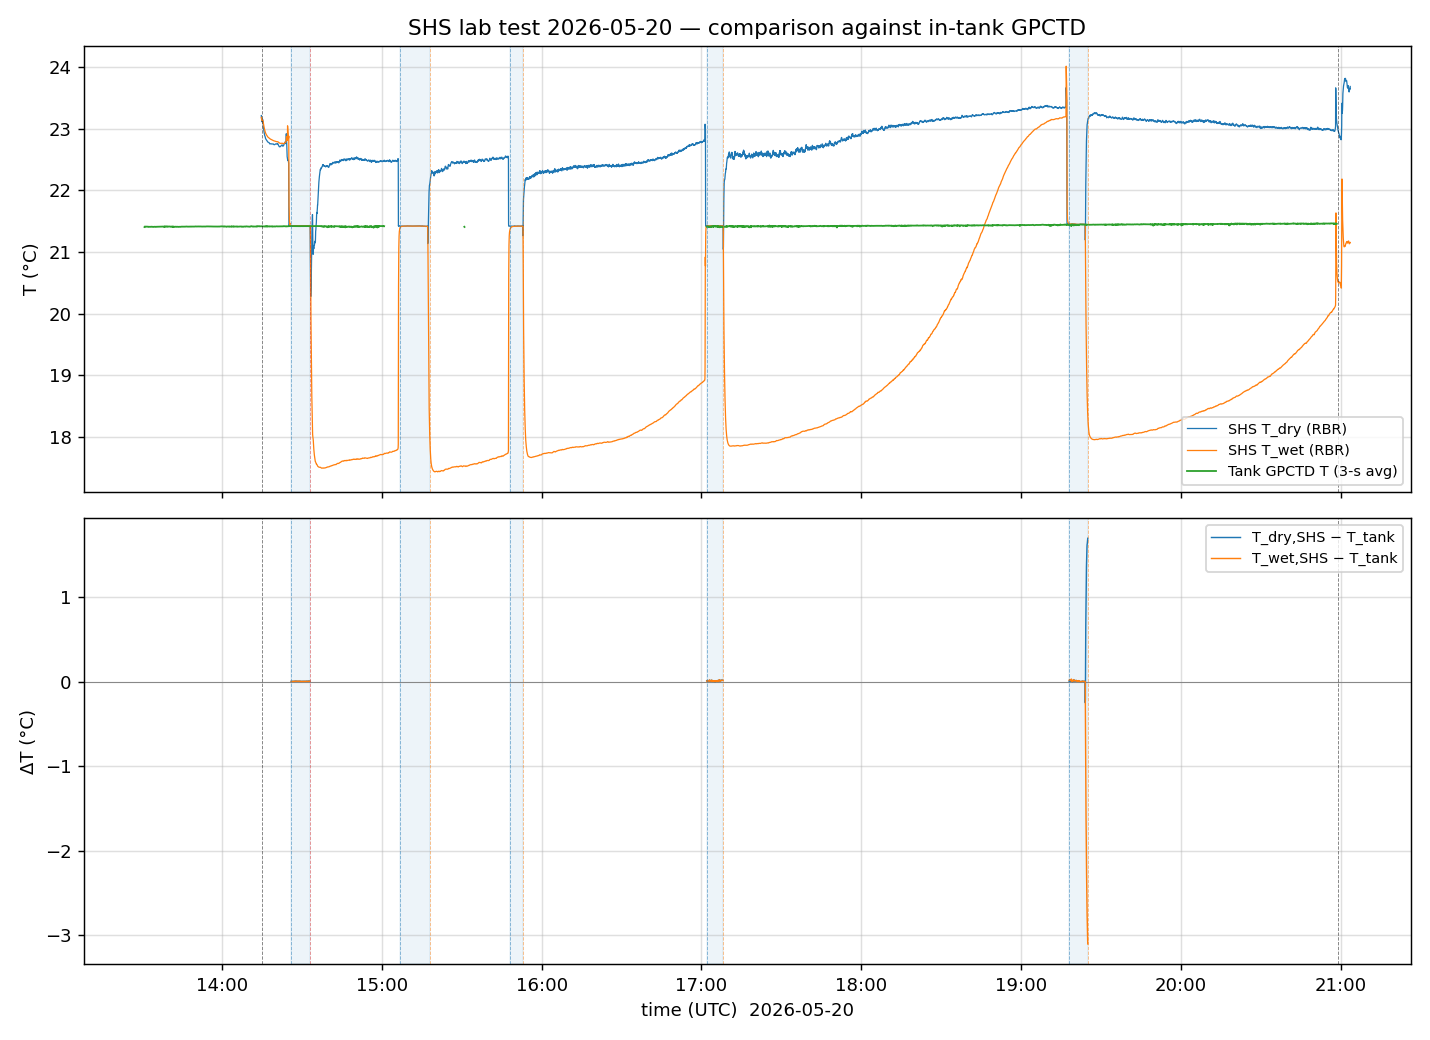
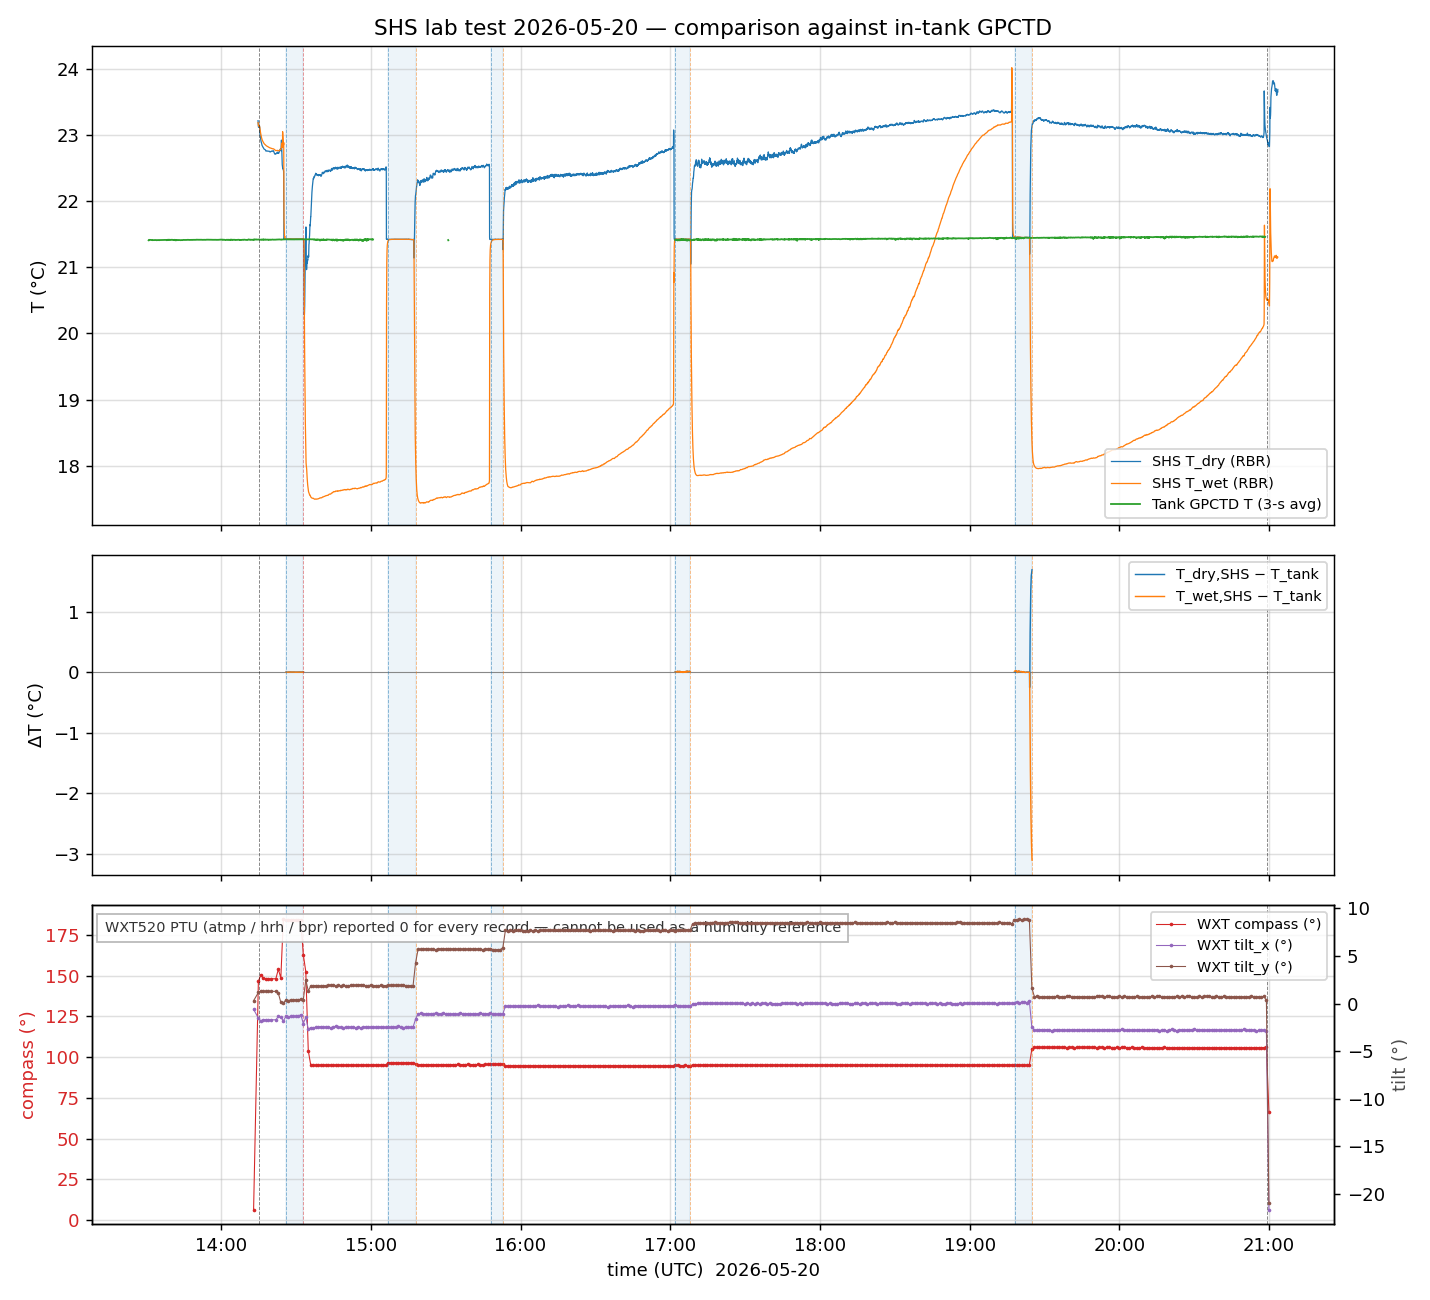
Add WXT520 diagnostic panel to SHS-vs-tank figure
The WXT520 PTU sensor (atmp/hrh/bpr) reported 0 for every record in this
test (confirmed by both the official UOP MATLAB-processed CSV/NC and the
Python decoder), so it cannot serve as a humidity reference. We now read
the processed/ASWXT102.csv file and plot compass + tilt as proof-of-life
in a third panel, with a text annotation flagging the dead PTU channel.

diff --git a/code/compare_Lab20260520.py b/code/compare_Lab20260520.py
@@ -1,12 +1,18 @@
 """Compare 2026-05-20 SHS lab-test temperatures against the independent
-in-tank Seabird GPCTD reference.
+in-tank Seabird GPCTD reference, with a diagnostic panel showing the WXT520
+compass / tilt channels.
 
-The Vaisala WXT520 file (data/20260520Lab/WXT/ASWXT102.DAT) was checked
-separately and its PTU channel decoded to all zeros, so it is not used here.
+The Vaisala WXT520 PTU sensor (air T / RH / pressure) was not reporting
+for this test — both the UOP MATLAB-processed CSV and our Python decoder
+show atmp = hrh = bpr = 0 for every record. Only compass and tilt are valid.
+So the WXT cannot serve as a humidity reference here; we plot the compass
+and tilt as proof-of-life and call out the dead PTU channel.
 
 Inputs:
-  - data/20260520Lab/RBR/psychrometrics_20260520.csv (SHS psychrometric output)
-  - data/20260520Lab/tank/20260520_CT_tank_log_EGH    (Seabird GPCTD, 1 Hz)
+  - data/20260520Lab/RBR/psychrometrics_20260520.csv  (SHS psychrometric output)
+  - data/20260520Lab/tank/20260520_CT_tank_log_EGH     (Seabird GPCTD, 1 Hz)
+  - data/20260520Lab/WXT/20260521_SHS-test_EGH/processed/ASWXT102.csv
+      (official UOP-decoded WXT520 output)
 
 Outputs:
   - data/20260520Lab/compare_SHS_tank_20260520.csv
@@ -64,6 +70,8 @@ def main():
     root = here / ".."
     shs_csv = root / "data/20260520Lab/RBR/psychrometrics_20260520.csv"
     ct_log = root / "data/20260520Lab/tank/20260520_CT_tank_log_EGH"
+    wxt_csv = (root / "data/20260520Lab/WXT/20260521_SHS-test_EGH/"
+               "processed/ASWXT102.csv")
     img_dir = root / "img/Lab20260520"
     img_dir.mkdir(parents=True, exist_ok=True)
 
@@ -74,6 +82,12 @@ def main():
     print(f"Tank GPCTD samples       : {len(ct)} "
           f"({ct.index.min()} → {ct.index.max()})")
     ct3 = ct["T_C"].resample("3s").mean()
+
+    wxt = pd.read_csv(wxt_csv, parse_dates=["time"]).set_index("time")
+    ptu_dead = bool((wxt[["atmp", "hrh", "bpr"]].abs().sum().sum()) == 0)
+    print(f"WXT520 records           : {len(wxt)} "
+          f"({wxt.index.min()} → {wxt.index.max()})  "
+          f"{'PTU sensor not reporting (atmp=hrh=bpr=0)' if ptu_dead else 'PTU OK'}")
 
     # --- per-in-water-interval comparison -----------------------------
     print("\nWhile SHS is in the tank (independent T reference = GPCTD):")
@@ -107,7 +121,8 @@ def main():
     print(f"\nwrote {out_csv}")
 
     # --- plot ---------------------------------------------------------
-    fig, axs = plt.subplots(2, 1, figsize=(11, 8), sharex=True)
+    fig, axs = plt.subplots(3, 1, figsize=(11, 10), sharex=True,
+                            gridspec_kw={"height_ratios": [3, 2, 2]})
 
     axs[0].plot(shs.index, shs["T_dry_C"], lw=0.7, color="C0",
                 label="SHS T_dry (RBR)")
@@ -141,6 +156,28 @@ def main():
     axs[1].set_ylabel("ΔT (°C)")
     axs[1].legend(loc="upper right", fontsize=8)
     axs[1].grid(alpha=0.4)
+
+    # WXT diagnostic panel (compass / tilt only — PTU was dead)
+    ax2 = axs[2]
+    ax2.plot(wxt.index, wxt["compass"], ".-", ms=2, lw=0.6, color="C3",
+             label="WXT compass (°)")
+    ax2.set_ylabel("compass (°)", color="C3")
+    ax2.tick_params(axis="y", labelcolor="C3")
+    ax2.grid(alpha=0.4)
+    ax2b = ax2.twinx()
+    ax2b.plot(wxt.index, wxt["tilt_x"], ".-", ms=2, lw=0.6, color="C4",
+              label="WXT tilt_x (°)")
+    ax2b.plot(wxt.index, wxt["tilt_y"], ".-", ms=2, lw=0.6, color="C5",
+              label="WXT tilt_y (°)")
+    ax2b.set_ylabel("tilt (°)", color="0.3")
+    h1, l1 = ax2.get_legend_handles_labels()
+    h2, l2 = ax2b.get_legend_handles_labels()
+    ax2.legend(h1 + h2, l1 + l2, loc="upper right", fontsize=8)
+    note = ("WXT520 PTU (atmp / hrh / bpr) reported 0 for every record —"
+            " cannot be used as a humidity reference")
+    ax2.text(0.01, 0.95, note, transform=ax2.transAxes, fontsize=8,
+             color="0.2", va="top",
+             bbox=dict(facecolor="white", edgecolor="0.7", alpha=0.9))
 
     color_for = {"IN": "tab:blue", "OUT": "tab:orange",
                  "fan-on/OUT": "tab:red", "start": "k", "OFF": "k"}